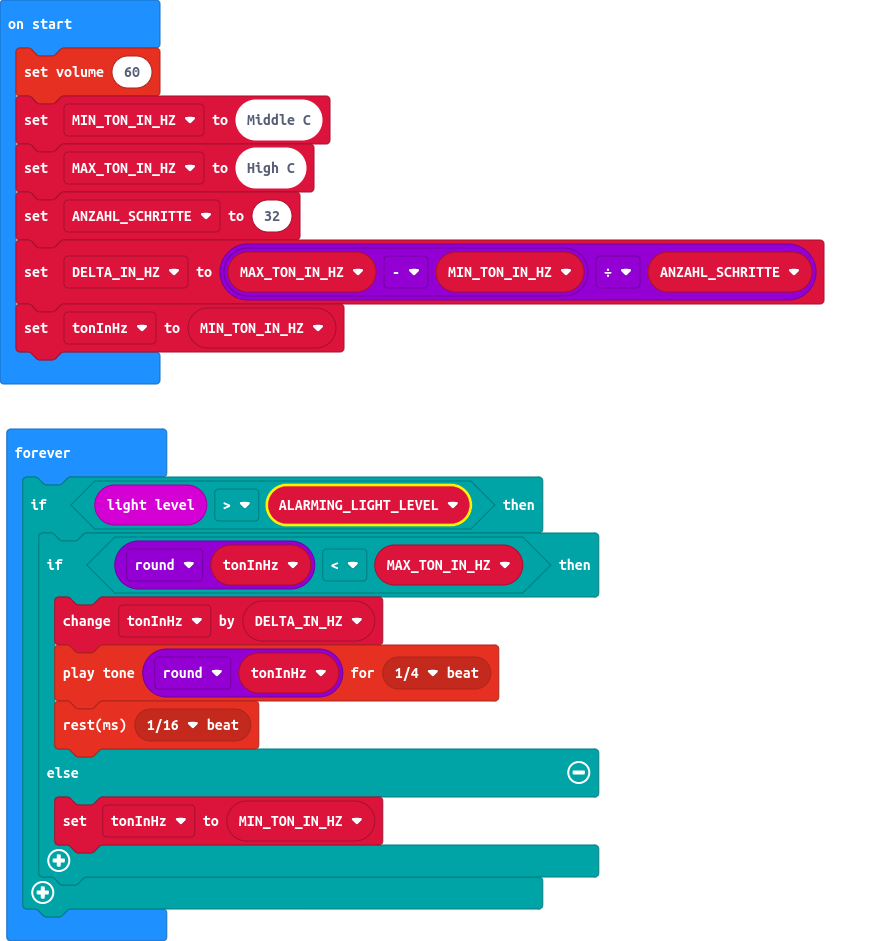
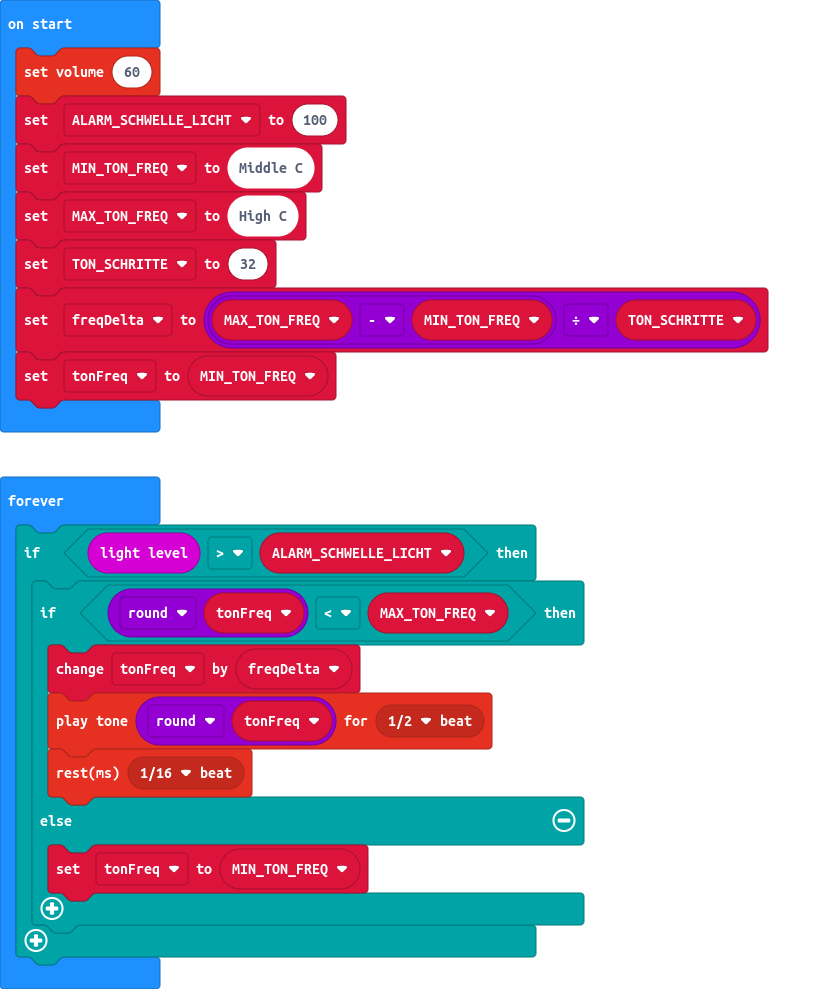
Update main.blocks, main.ts

Changed region(s): [[0.0, 0.0, 0.9451, 1.0]]

diff --git a/main.ts b/main.ts
@@ -1,18 +1,18 @@
 music.setVolume(60)
-let MIN_TON_IN_HZ = 262
-let MAX_TON_IN_HZ = 523
-let ANZAHL_SCHRITTE = 32
-let DELTA_IN_HZ = (MAX_TON_IN_HZ - MIN_TON_IN_HZ) / ANZAHL_SCHRITTE
-let tonInHz = MIN_TON_IN_HZ
+let ALARM_SCHWELLE_LICHT = 100
+let MIN_TON_FREQ = 262
+let MAX_TON_FREQ = 523
+let TON_SCHRITTE = 32
+let freqDelta = (MAX_TON_FREQ - MIN_TON_FREQ) / TON_SCHRITTE
+let tonFreq = MIN_TON_FREQ
 basic.forever(function () {
-    let ALARMING_LIGHT_LEVEL = 0
-    if (input.lightLevel() > ALARMING_LIGHT_LEVEL) {
-        if (Math.round(tonInHz) < MAX_TON_IN_HZ) {
-            tonInHz += DELTA_IN_HZ
-            music.playTone(Math.round(tonInHz), music.beat(BeatFraction.Quarter))
+    if (input.lightLevel() > ALARM_SCHWELLE_LICHT) {
+        if (Math.round(tonFreq) < MAX_TON_FREQ) {
+            tonFreq += freqDelta
+            music.playTone(Math.round(tonFreq), music.beat(BeatFraction.Half))
             music.rest(music.beat(BeatFraction.Sixteenth))
         } else {
-            tonInHz = MIN_TON_IN_HZ
+            tonFreq = MIN_TON_FREQ
         }
     }
 })
